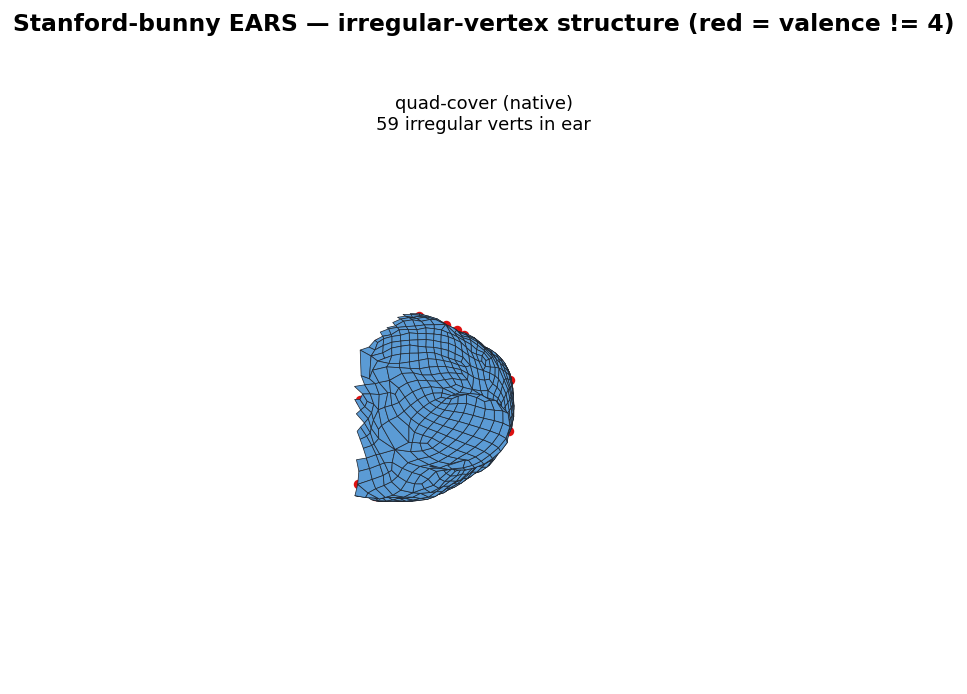
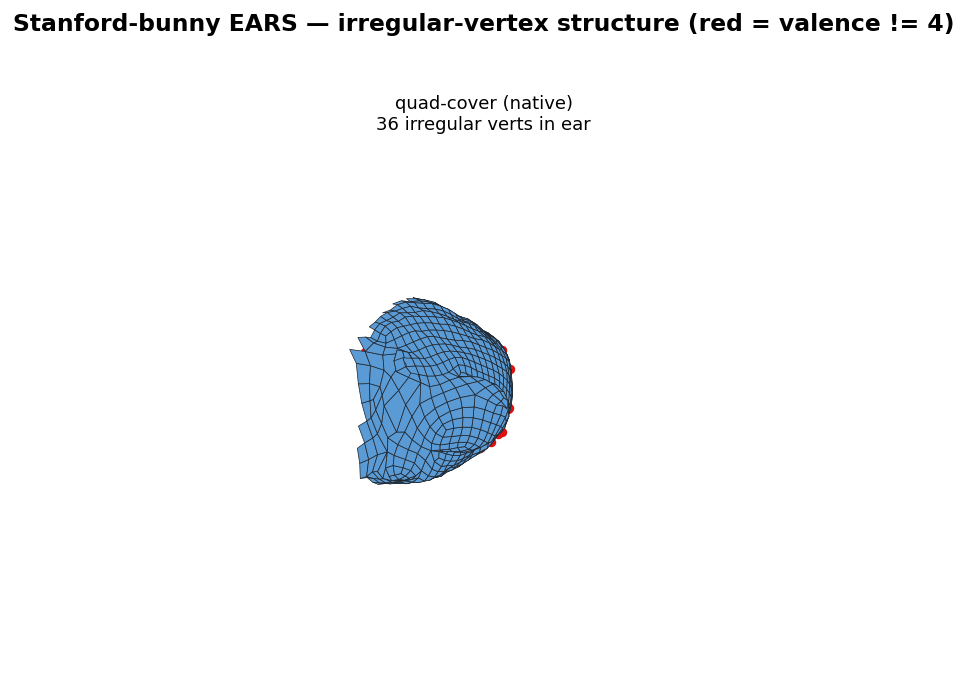
release: 0.4.0 — Bi-MDF guided quantization beats QuadriFlow on the bunny ears; 7-second dense solves
Since 0.3.0, five measured rounds built the full Bi-MDF quantization
stack and two deep engine fixes:

Quality
- Guided Bi-MDF rounding (opt-in, CYBER_QC_BIMDF=guided): the greedy
  integer schedule steered toward the min-deviation-flow optimum with
  health gates that auto-refuse where steering hurts. Flagship result:
  Stanford-bunny ear irregular vertices 37 -> 19 at matched count —
  fewer than QuadriFlow's 20 — with singularities 135 -> 94 and
  fidelity improving. Ships opt-in; wins are organic-scoped.
- Full quantization machinery underneath: fold-tolerant motorcycle
  T-mesh tracer (QEx-style signed-angle sectors, self-hit separatrix
  termination — every corpus mesh incl. open-boundary scans now builds
  and solves), S1 min-deviation-flow solver (T-join parity, Hochbaum
  double cover, in-tree MCF), even-sum polygonal templates, opt-in QGP
  boundary arcs, deviation-energy instrumentation.

Robustness
- Mesh kernel: edge collapse now enforces the link condition (with
  obstruction-clearing flips) — non-manifold fins/fans eliminated at
  the source; the default CAD path improves (cylinder@3000
  singularities 18 -> 8 at recall 1.00).

Performance
- Best-first BVH closest-point traversal: the isotropic phase drops
  15.2s -> 0.74s on nefertiti; wall 20.4s -> 7.0s. Cumulative since the
  campaign began: 223s -> 7s (32x), within ~2.3x of QuadriFlow.

The evidence trail for every number — including refuted designs and
[…]

Changed region(s): [[0.3413, 0.4236, 0.5584, 0.7262], [0.4033, 0.1513, 0.4343, 0.1816]]

diff --git a/python/cyberbridge/__init__.py b/python/cyberbridge/__init__.py
@@ -7,4 +7,4 @@ speaking raw sockets. See :class:`cyberbridge.client.Client`.
 from .client import BridgeError, Client, PROTOCOL_VERSION, load_obj, save_obj
 
 __all__ = ["Client", "BridgeError", "PROTOCOL_VERSION", "load_obj", "save_obj"]
-__version__ = "0.3.0"
+__version__ = "0.4.0"

diff --git a/python/cyberremesh/cyberremesh/__init__.py b/python/cyberremesh/cyberremesh/__init__.py
@@ -46,4 +46,4 @@ __all__ = [
     "AtlasParams",
     "AtlasResult",
 ]
-__version__ = "0.3.0"
+__version__ = "0.4.0"
